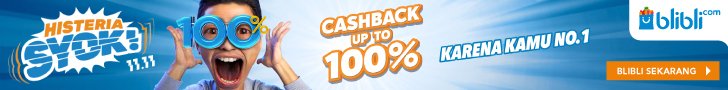
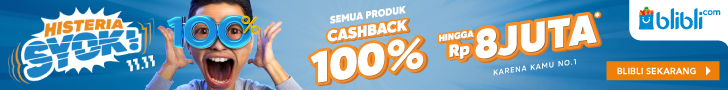
update fsto blibli 11 nov

diff --git a/idn/preview/idntimes/fsto/blibli/index.html b/idn/preview/idntimes/fsto/blibli/index.html
@@ -800,7 +800,7 @@ function callAnalytics(path, queryString) {
         <video controls autoplay muted playsinline preload="metadata" style="width: 442px; height: 250px; position: absolute; left: 0; top: 0; z-index: 1;">
             <source src="https://ads.idntimes.com/ads-assets/client/blibli/november2019/11/video-blibli.mp4" type="video/mp4">
         </video>
-        <img src="970x250.jpg" alt="leaderboard">
+        <img src="https://ads.idntimes.com/ads-assets/client/blibli/november2019/11/970x250-v2.jpg" alt="leaderboard">
     </div>
 </center>               
                         
